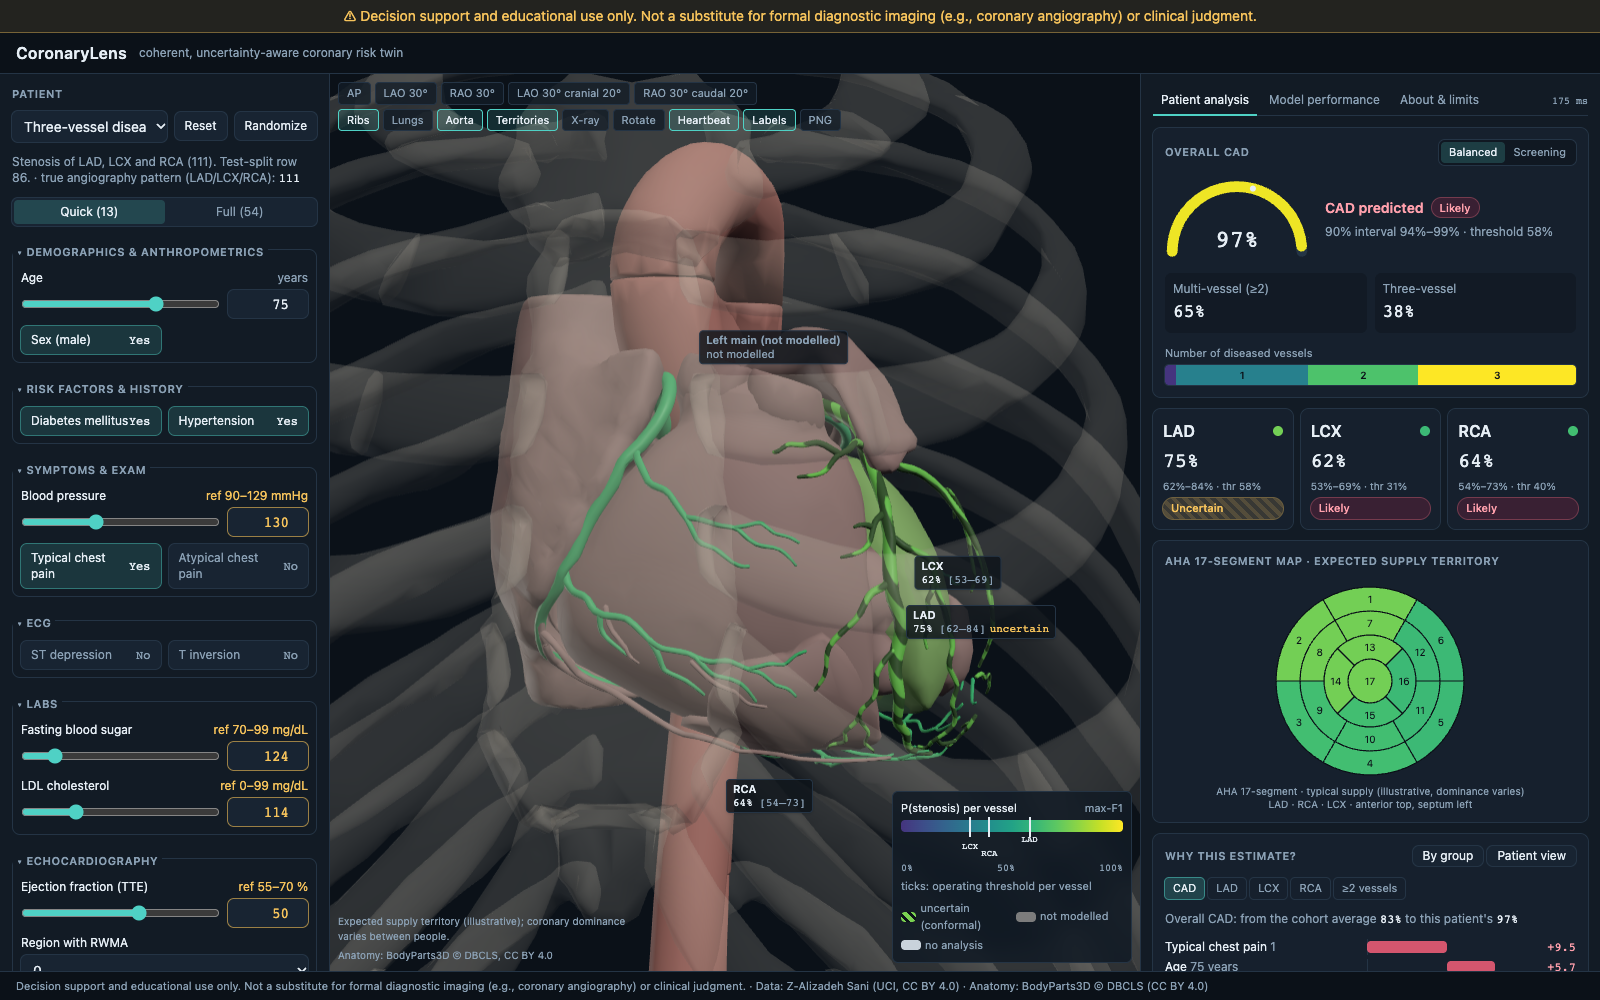
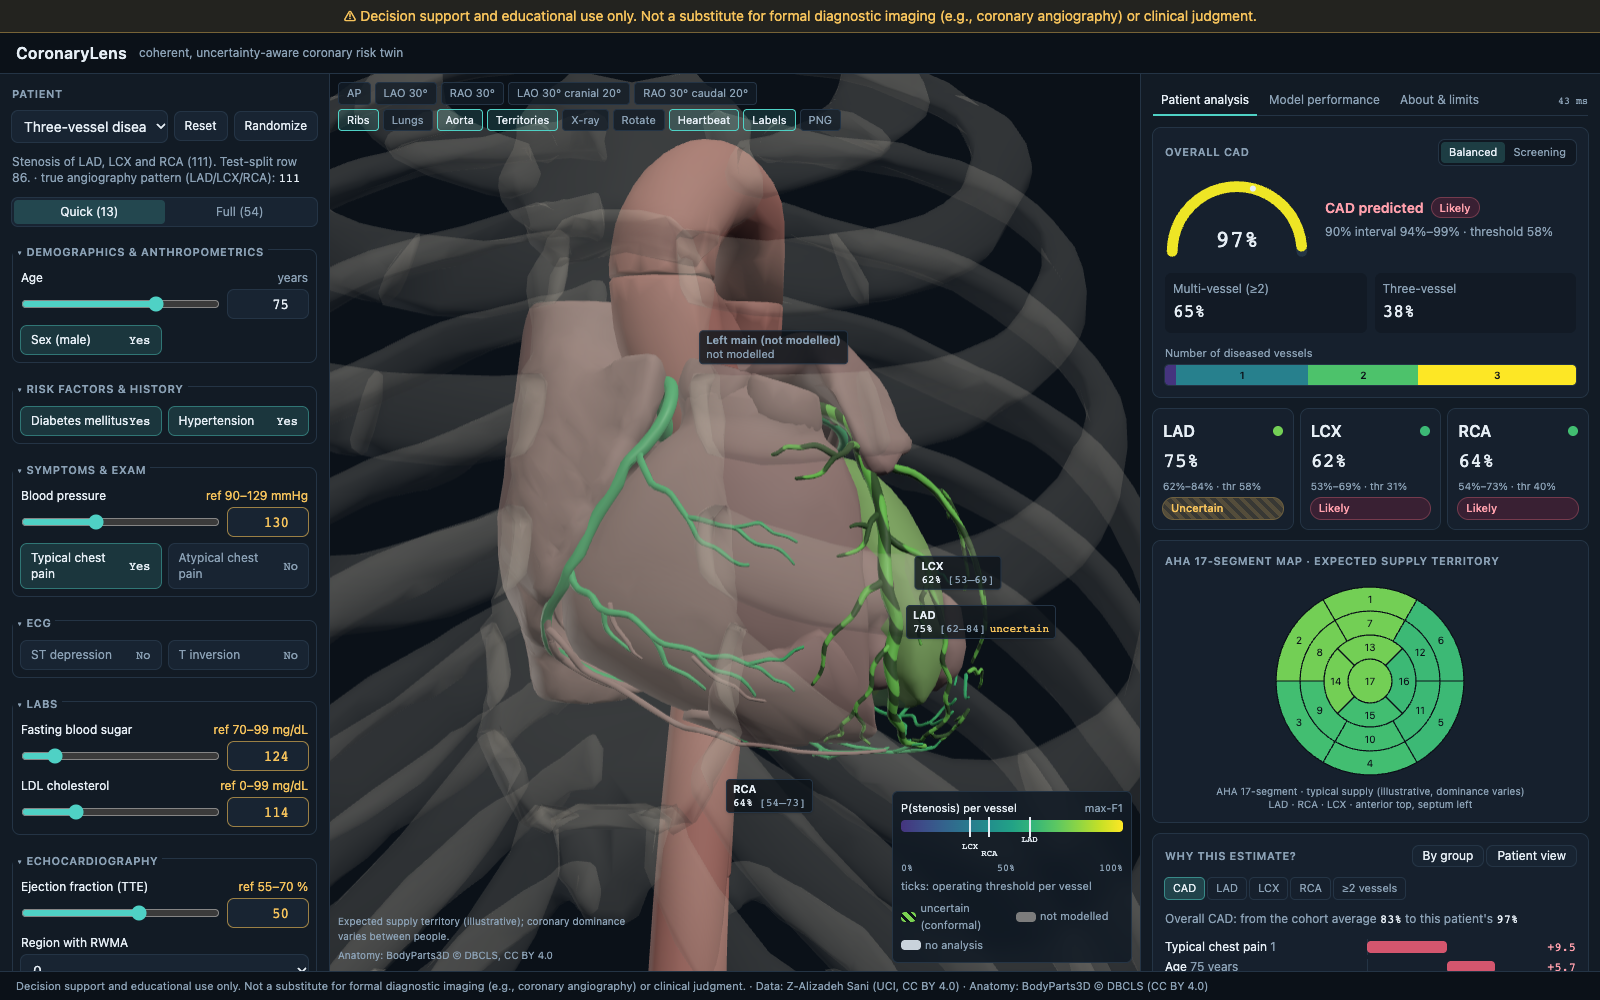
feat(dashboard): model performance tab with test CIs, CV comparison, coherence, calibration, DCA, conformal, ablation

diff --git a/frontend/src/dashboard/ModelPerformance.tsx b/frontend/src/dashboard/ModelPerformance.tsx
@@ -1,14 +1,350 @@
-import { useEffect, useState } from 'react'
+import { useEffect, useState, type ReactNode } from 'react'
+import {
+  Bar,
+  BarChart,
+  CartesianGrid,
+  Legend,
+  Line,
+  LineChart,
+  ResponsiveContainer,
+  Scatter,
+  ScatterChart,
+  Tooltip,
+  XAxis,
+  YAxis,
+  ZAxis,
+} from 'recharts'
 import { api } from '../api/client'
 
-// Filled in once ml/artifacts/metrics.json has its final shape (Phase 1 output).
+// Loose view of ml/artifacts/metrics.json (+ ablation) — only the fields this tab reads.
+type Stat = { mean: number; sd: number }
+type CI = { value: number; ci95: [number, number] }
+interface Metrics {
+  data: { n: number; n_train: number; n_test: number }
+  cv: {
+    settings: { outer_folds: number; outer_repeats: number; inner_folds: number }
+    variants: Record<string, Record<string, Record<string, Stat>> & { pattern_log_loss: Stat; coherence_violation_rate: Stat }>
+    selection?: { chosen?: string; rule?: string } & Record<string, unknown>
+  }
+  test: {
+    served: { variant: string; metrics: Record<string, Record<string, CI>> }
+    comparison_served_vs_independent: Record<string, { delong: { diff: number; p_value: number } }>
+  }
+  coherence: Record<string, Stat>
+  calibration: { method: string; test: Record<string, { slope: number; ece: number; reliability: { mean_pred: number; frac_pos: number; n: number }[] }> }
+  conformal: { target_coverage: number; test: Record<string, { coverage: number; mean_set_size: number; frac_uncertain: number }> }
+  dca: { test: Record<string, { thresholds: number[]; model: number[]; treat_all: number[] }> }
+  subgroups: { groups: Record<string, { n: number } & Record<string, { roc_auc: number }>> }
+  explanations: { deletion_auc_shap: number; deletion_auc_random: number; max_additivity_error: number }
+  ablation?: { model: string; cv: string; targets: Record<string, Record<string, { roc_auc: Stat; accuracy: Stat }>> }
+}
+
+const TARGETS = ['CAD', 'LAD', 'LCX', 'RCA'] as const
+const VARIANT_LABEL: Record<string, string> = {
+  joint_vector: 'Joint (served)',
+  joint_none: 'Joint, uncalibrated',
+  independent: 'Independent',
+  chains: 'Classifier chains',
+  lightgbm_temperature: 'LightGBM joint',
+}
+const f2 = (x: number | undefined) => (x == null ? '–' : x.toFixed(2))
+const f3 = (x: number | undefined) => (x == null ? '–' : x.toFixed(3))
+const pc = (x: number | undefined, d = 1) => (x == null ? '–' : `${(x * 100).toFixed(d)}%`)
+const AX = { stroke: 'var(--color-muted)', fontSize: 10 }
+const TIP = { contentStyle: { background: '#121b25', border: '1px solid #243445', fontSize: 11 } }
+
+function Section({ title, children, note }: { title: string; children: ReactNode; note?: ReactNode }) {
+  return (
+    <section className="card">
+      <h3 className="h-section">{title}</h3>
+      {children}
+      {note && <p className="mt-2 text-[10px] leading-snug text-muted">{note}</p>}
+    </section>
+  )
+}
+
+const Th = ({ children }: { children?: ReactNode }) => <th className="px-1 py-1 text-right font-medium first:text-left">{children}</th>
+const Td = ({ children, strong }: { children: ReactNode; strong?: boolean }) => (
+  <td className={`px-1 py-1 text-right font-mono first:text-left first:font-sans ${strong ? 'text-text' : 'text-text/80'}`}>{children}</td>
+)
+
 export default function ModelPerformance() {
-  const [metrics, setMetrics] = useState<Record<string, unknown> | null>(null)
+  const [m, setM] = useState<Metrics | null>(null)
   const [err, setErr] = useState(false)
+  const [dcaTarget, setDcaTarget] = useState<(typeof TARGETS)[number]>('CAD')
+
   useEffect(() => {
-    api.metrics().then(setMetrics).catch(() => setErr(true))
+    api.metrics().then((x) => setM(x as unknown as Metrics)).catch(() => setErr(true))
   }, [])
   if (err) return <p className="text-xs text-muted">Metrics unavailable (backend offline).</p>
-  if (!metrics) return <div className="card h-40 animate-pulse" />
-  return <pre className="overflow-x-auto text-[10px] text-muted">{JSON.stringify(metrics, null, 1).slice(0, 4000)}</pre>
+  if (!m) return <div className="card h-40 animate-pulse" />
+
+  const served = m.test.served.metrics
+  const variants = Object.keys(VARIANT_LABEL).filter((v) => m.cv.variants[v])
+  const coherence = Object.keys(VARIANT_LABEL)
+    .filter((v) => m.coherence[v])
+    .map((v) => ({ name: VARIANT_LABEL[v], rate: m.coherence[v].mean * 100 }))
+  const dca = m.dca.test[dcaTarget]
+  const dcaRows = dca.thresholds.map((t, i) => ({ t, model: dca.model[i], all: dca.treat_all[i], none: 0 }))
+  const COLORS = ['#4fd1c5', '#f6c35b', '#a78bfa', '#f472b6']
+
+  return (
+    <div className="flex flex-col gap-3 text-xs">
+      <p className="text-muted">
+        n = {m.data.n} patients. Primary estimate: repeated nested cross-validation ({m.cv.settings.outer_repeats}×
+        {m.cv.settings.outer_folds} outer, {m.cv.settings.inner_folds} inner) on the {m.data.n_train}-patient training split. Secondary:
+        a locked {m.data.n_test}-patient test split evaluated once, with 2,000-resample bootstrap 95% CIs.
+      </p>
+
+      <Section
+        title="Locked test set · served model"
+        note="Threshold metrics use the max-F1 operating threshold chosen on out-of-fold training predictions. Small test set: CIs are wide."
+      >
+        <table className="w-full">
+          <thead className="text-[10px] uppercase text-muted">
+            <tr>
+              <Th>Target</Th>
+              <Th>ROC-AUC [95% CI]</Th>
+              <Th>PR-AUC</Th>
+              <Th>Brier</Th>
+              <Th>Acc</Th>
+              <Th>Prec</Th>
+              <Th>Rec</Th>
+              <Th>F1</Th>
+            </tr>
+          </thead>
+          <tbody>
+            {[...TARGETS, 'P_GE2', 'P_3VD'].map((t) => {
+              const r = served[t]
+              if (!r) return null
+              return (
+                <tr key={t} className="border-t border-line/60">
+                  <Td strong>{t === 'P_GE2' ? '≥2 vessels' : t === 'P_3VD' ? '3 vessels' : t}</Td>
+                  <Td strong>
+                    {f3(r.roc_auc?.value)}
+                    <span className="block text-[9px] text-muted">[{f2(r.roc_auc?.ci95[0])}–{f2(r.roc_auc?.ci95[1])}]</span>
+                  </Td>
+                  <Td>{f2(r.pr_auc?.value)}</Td>
+                  <Td>{f3(r.brier?.value)}</Td>
+                  <Td>{f2(r.accuracy?.value)}</Td>
+                  <Td>{f2(r.precision?.value)}</Td>
+                  <Td>{f2(r.recall?.value)}</Td>
+                  <Td>{f2(r.f1?.value)}</Td>
+                </tr>
+              )
+            })}
+          </tbody>
+        </table>
+      </Section>
+
+      <Section
+        title="Nested CV · model comparison (ROC-AUC mean ± SD)"
+        note={
+          <>
+            Same outer folds for every model. Selection rule: lowest pattern log-loss, then AUC, simplest within 1 SE. On the test set the
+            joint and independent models do not differ significantly in AUC (DeLong p ={' '}
+            {TARGETS.map((t) => f2(m.test.comparison_served_vs_independent[t]?.delong.p_value)).join(' / ')}); the joint model's gain is
+            coherence and calibration.
+          </>
+        }
+      >
+        <div className="overflow-x-auto">
+          <table className="w-full">
+            <thead className="text-[10px] uppercase text-muted">
+              <tr>
+                <Th>Model</Th>
+                {TARGETS.map((t) => (
+                  <Th key={t}>{t}</Th>
+                ))}
+                <Th>Log-loss</Th>
+                <Th>Contra&shy;dictions</Th>
+              </tr>
+            </thead>
+            <tbody>
+              {variants.map((v) => {
+                const r = m.cv.variants[v]
+                return (
+                  <tr key={v} className={`border-t border-line/60 ${v === m.test.served.variant ? 'bg-accent/5' : ''}`}>
+                    <Td strong={v === m.test.served.variant}>{VARIANT_LABEL[v]}</Td>
+                    {TARGETS.map((t) => (
+                      <Td key={t}>
+                        {f3(r[t]?.roc_auc?.mean)}
+                        <span className="block text-[9px] text-muted">±{f2(r[t]?.roc_auc?.sd)}</span>
+                      </Td>
+                    ))}
+                    <Td>{f3(r.pattern_log_loss?.mean)}</Td>
+                    <Td strong>{pc(r.coherence_violation_rate?.mean)}</Td>
+                  </tr>
+                )
+              })}
+            </tbody>
+          </table>
+        </div>
+      </Section>
+
+      <Section
+        title="Coherence · patients where P(CAD) < some vessel's P(stenosis)"
+        note="Logically impossible, since CAD means at least one stenotic vessel. Measured on nested-CV out-of-fold predictions. The joint model is 0% by construction: P(CAD) = 1 − P(no vessel stenotic)."
+      >
+        <div className="h-36">
+          <ResponsiveContainer>
+            <BarChart data={coherence} layout="vertical" margin={{ left: 8, right: 16 }}>
+              <XAxis type="number" unit="%" {...AX} />
+              <YAxis type="category" dataKey="name" width={110} {...AX} />
+              <Tooltip {...TIP} formatter={(v) => `${Number(v).toFixed(1)}%`} />
+              <Bar dataKey="rate" fill="#f472b6" isAnimationActive={false} />
+            </BarChart>
+          </ResponsiveContainer>
+        </div>
+      </Section>
+
+      <Section
+        title={`Calibration on test (${m.calibration.method} scaling)`}
+        note={`Calibration slope / ECE: ${TARGETS.map((t) => `${t} ${f2(m.calibration.test[t]?.slope)} / ${f3(m.calibration.test[t]?.ece)}`).join(' · ')}. Diagonal = perfect calibration; dot size = patients in bin.`}
+      >
+        <div className="h-56">
+          <ResponsiveContainer>
+            <ScatterChart margin={{ left: -10, right: 10, top: 5 }}>
+              <CartesianGrid stroke="#243445" />
+              <XAxis type="number" dataKey="mean_pred" domain={[0, 1]} name="Predicted" {...AX} />
+              <YAxis type="number" dataKey="frac_pos" domain={[0, 1]} name="Observed" {...AX} />
+              <ZAxis type="number" dataKey="n" range={[15, 120]} />
+              <Tooltip {...TIP} />
+              <Legend wrapperStyle={{ fontSize: 10 }} />
+              <Scatter
+                name="ideal"
+                data={[
+                  { mean_pred: 0, frac_pos: 0, n: 0 },
+                  { mean_pred: 1, frac_pos: 1, n: 0 },
+                ]}
+                line={{ stroke: '#8aa0b4', strokeDasharray: '4 4' }}
+                shape={() => <g />}
+                legendType="none"
+              />
+              {TARGETS.map((t, i) => (
+                <Scatter key={t} name={t} data={m.calibration.test[t]?.reliability ?? []} fill={COLORS[i]} line={{ stroke: COLORS[i] }} isAnimationActive={false} />
+              ))}
+            </ScatterChart>
+          </ResponsiveContainer>
+        </div>
+      </Section>
+
+      <Section
+        title="Decision curve analysis (test)"
+        note="Net benefit of acting on the model vs treating everyone or no one, across risk thresholds (Vickers & Elkin 2006)."
+      >
+        <div className="mb-1 flex gap-1">
+          {TARGETS.map((t) => (
+            <button key={t} type="button" className={`btn !py-0.5 ${t === dcaTarget ? '!ring-accent' : ''}`} onClick={() => setDcaTarget(t)}>
+              {t}
+            </button>
+          ))}
+        </div>
+        <div className="h-48">
+          <ResponsiveContainer>
+            <LineChart data={dcaRows} margin={{ left: -10, right: 10, top: 5 }}>
+              <CartesianGrid stroke="#243445" />
+              <XAxis dataKey="t" type="number" domain={[0, 1]} {...AX} />
+              <YAxis domain={[-0.1, 'auto']} allowDataOverflow {...AX} />
+              <Tooltip {...TIP} formatter={(v) => Number(v).toFixed(3)} />
+              <Legend wrapperStyle={{ fontSize: 10 }} />
+              <Line dataKey="model" name="Model" stroke="#4fd1c5" dot={false} isAnimationActive={false} />
+              <Line dataKey="all" name="Treat all" stroke="#f6c35b" dot={false} isAnimationActive={false} />
+              <Line dataKey="none" name="Treat none" stroke="#8aa0b4" dot={false} isAnimationActive={false} />
+            </LineChart>
+          </ResponsiveContainer>
+        </div>
+      </Section>
+
+      <Section title={`Conformal prediction · ${pc(m.conformal.target_coverage, 0)} target coverage (test)`}>
+        <table className="w-full">
+          <thead className="text-[10px] uppercase text-muted">
+            <tr>
+              <Th>Target</Th>
+              <Th>Coverage</Th>
+              <Th>Mean set size</Th>
+              <Th>"Uncertain" rate</Th>
+            </tr>
+          </thead>
+          <tbody>
+            {TARGETS.map((t) => (
+              <tr key={t} className="border-t border-line/60">
+                <Td strong>{t}</Td>
+                <Td>{pc(m.conformal.test[t]?.coverage)}</Td>
+                <Td>{f2(m.conformal.test[t]?.mean_set_size)}</Td>
+                <Td>{pc(m.conformal.test[t]?.frac_uncertain)}</Td>
+              </tr>
+            ))}
+          </tbody>
+        </table>
+      </Section>
+
+      {m.ablation && (
+        <Section
+          title="Leakage ablation · why we don't report 97–99%"
+          note={`${m.ablation.model}, ${m.ablation.cv}. Analysis only, never served. Doing SMOTE or feature selection on the full dataset before splitting lets test-fold information leak into training.`}
+        >
+          <table className="w-full">
+            <thead className="text-[10px] uppercase text-muted">
+              <tr>
+                <Th>ROC-AUC</Th>
+                <Th>SMOTE + selection before CV</Th>
+                <Th>Correct (in-fold)</Th>
+                <Th>Inflation</Th>
+              </tr>
+            </thead>
+            <tbody>
+              {TARGETS.map((t) => {
+                const a = m.ablation!.targets[t]
+                if (!a) return null
+                const bad = a.A_smote_and_selection_before_cv?.roc_auc.mean
+                const good = (a.D_correct_selection_and_smote_in_fold ?? a.D_correct_selection_in_fold)?.roc_auc.mean
+                return (
+                  <tr key={t} className="border-t border-line/60">
+                    <Td strong>{t}</Td>
+                    <Td>{f3(bad)}</Td>
+                    <Td>{f3(good)}</Td>
+                    <Td strong>+{f3(bad - good)}</Td>
+                  </tr>
+                )
+              })}
+            </tbody>
+          </table>
+        </Section>
+      )}
+
+      <Section title="Subgroups (nested-CV out-of-fold ROC-AUC)">
+        <table className="w-full">
+          <thead className="text-[10px] uppercase text-muted">
+            <tr>
+              <Th>Group</Th>
+              <Th>n</Th>
+              {TARGETS.map((t) => (
+                <Th key={t}>{t}</Th>
+              ))}
+            </tr>
+          </thead>
+          <tbody>
+            {Object.entries(m.subgroups.groups).map(([g, r]) => (
+              <tr key={g} className="border-t border-line/60">
+                <Td strong>{g}</Td>
+                <Td>{r.n}</Td>
+                {TARGETS.map((t) => (
+                  <Td key={t}>{f2(r[t]?.roc_auc)}</Td>
+                ))}
+              </tr>
+            ))}
+          </tbody>
+        </table>
+      </Section>
+
+      <Section title="Explanation fidelity">
+        <p className="text-text/80">
+          Removing the top-SHAP features first lowers the prediction far more than removing random features (deletion-curve area{' '}
+          {f3(m.explanations.deletion_auc_shap)} vs {f3(m.explanations.deletion_auc_random)}). Additivity error of the served explanation:{' '}
+          {m.explanations.max_additivity_error.toExponential(1)}.
+        </p>
+      </Section>
+    </div>
+  )
 }

diff --git a/frontend/e2e/app.spec.ts b/frontend/e2e/app.spec.ts
@@ -42,5 +42,12 @@ test('full stack: preset → API → dashboard + 3D agree; slider updates live',
   console.log(`slider→gauge update: ${ms} ms (includes 150 ms debounce)`)
   expect(ms).toBeLessThan(1000)
 
+  // Model performance tab renders real metrics.
+  await page.getByRole('tab', { name: 'Model performance' }).click()
+  await expect(page.getByText('Locked test set · served model')).toBeVisible()
+  await expect(page.getByText('Leakage ablation', { exact: false })).toBeVisible()
+  await page.screenshot({ path: '../docs/img/app-model-tab.png', fullPage: false })
+  await page.getByRole('complementary', { name: 'Risk dashboard' }).screenshot({ path: '../docs/img/app-model-tab-panel.png' })
+
   expect(errors).toEqual([])
 })

diff --git a/backend/app/main.py b/backend/app/main.py
@@ -84,7 +84,11 @@ def presets():
 
 @app.get("/api/metrics")
 def metrics():
-    return json.loads((artifacts_dir() / "metrics.json").read_text(encoding="utf-8"))
+    out = json.loads((artifacts_dir() / "metrics.json").read_text(encoding="utf-8"))
+    ablation = artifacts_dir() / "ablation.json"
+    if ablation.exists():  # analysis-only leakage ablation, shown in the Model performance tab
+        out["ablation"] = json.loads(ablation.read_text(encoding="utf-8"))
+    return out
 
 
 @app.get("/api/global-explanations")
